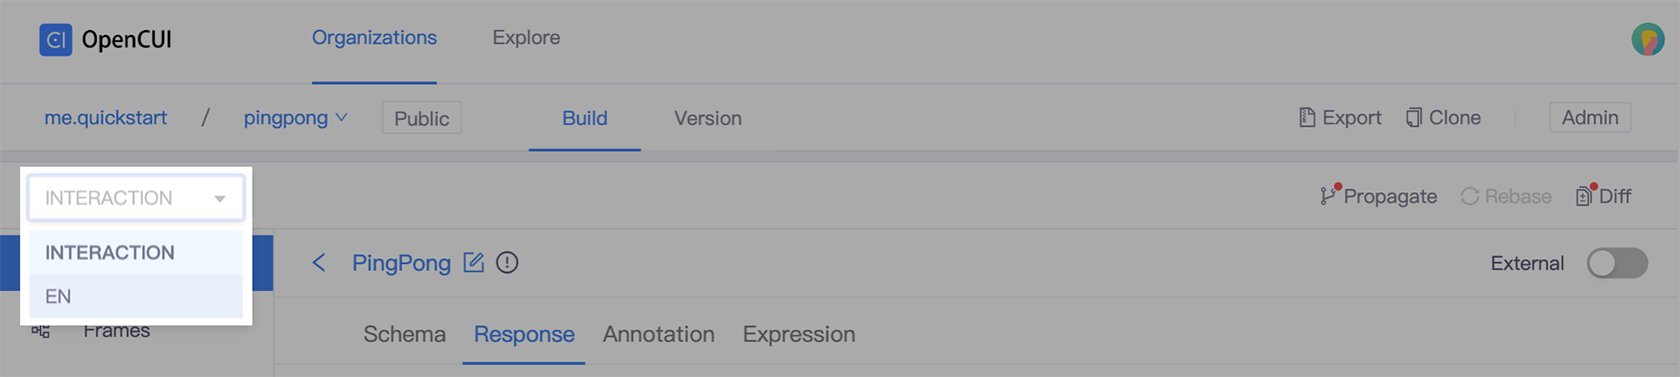
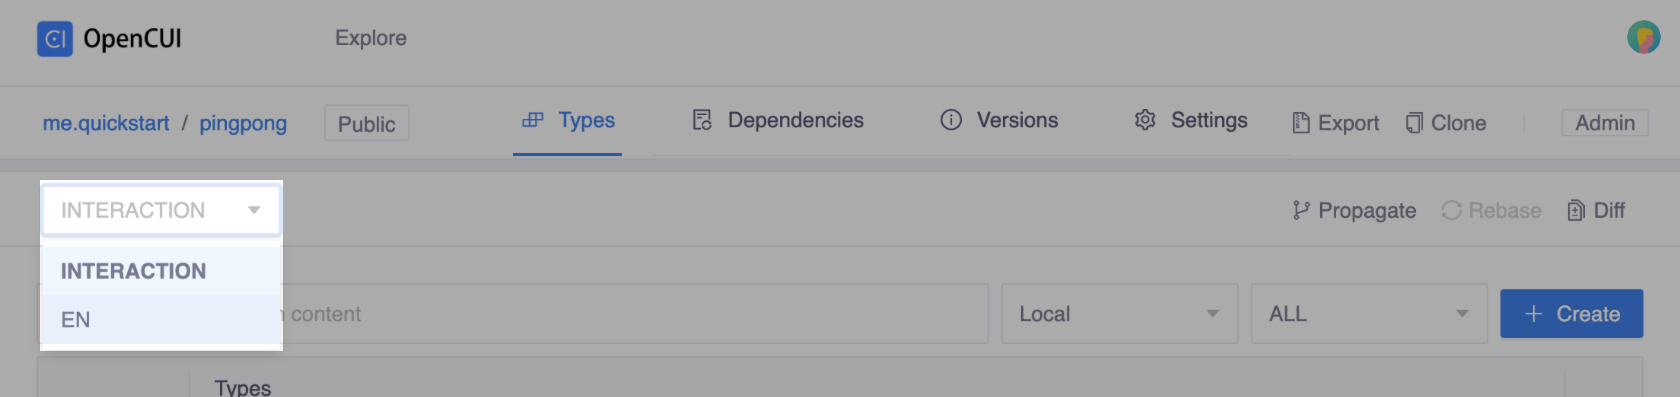
update screenshot

diff --git a/docs/guide/debug.md b/docs/guide/debug.md
@@ -10,7 +10,7 @@ This quickstart assumes you have finished [Clone a project](start-with-clone.md)
 To test your chatbot using Debug, follow these steps:
 * Switch to a language view, in this case **EN**. 
    ::: thumbnail
-   ![try it now](/images/guide/pingpong/tryitnow_icon.png)
+   ![try it now](/images/guide/pingpong/switch_pingpong_en.png)
    :::
 * In a language view, click **Debug** in the upper-right corner of the Build area , the debug window will slide out. 
 
